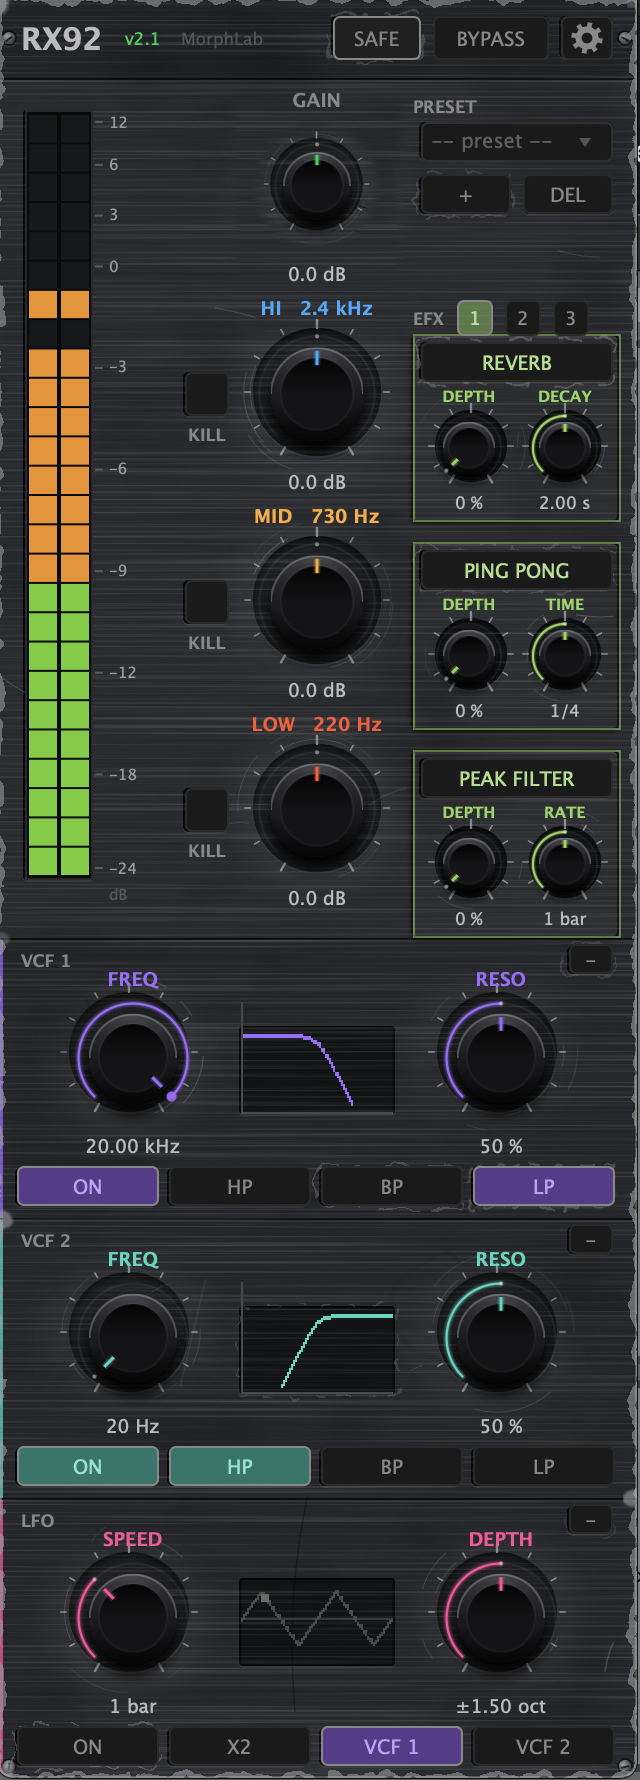
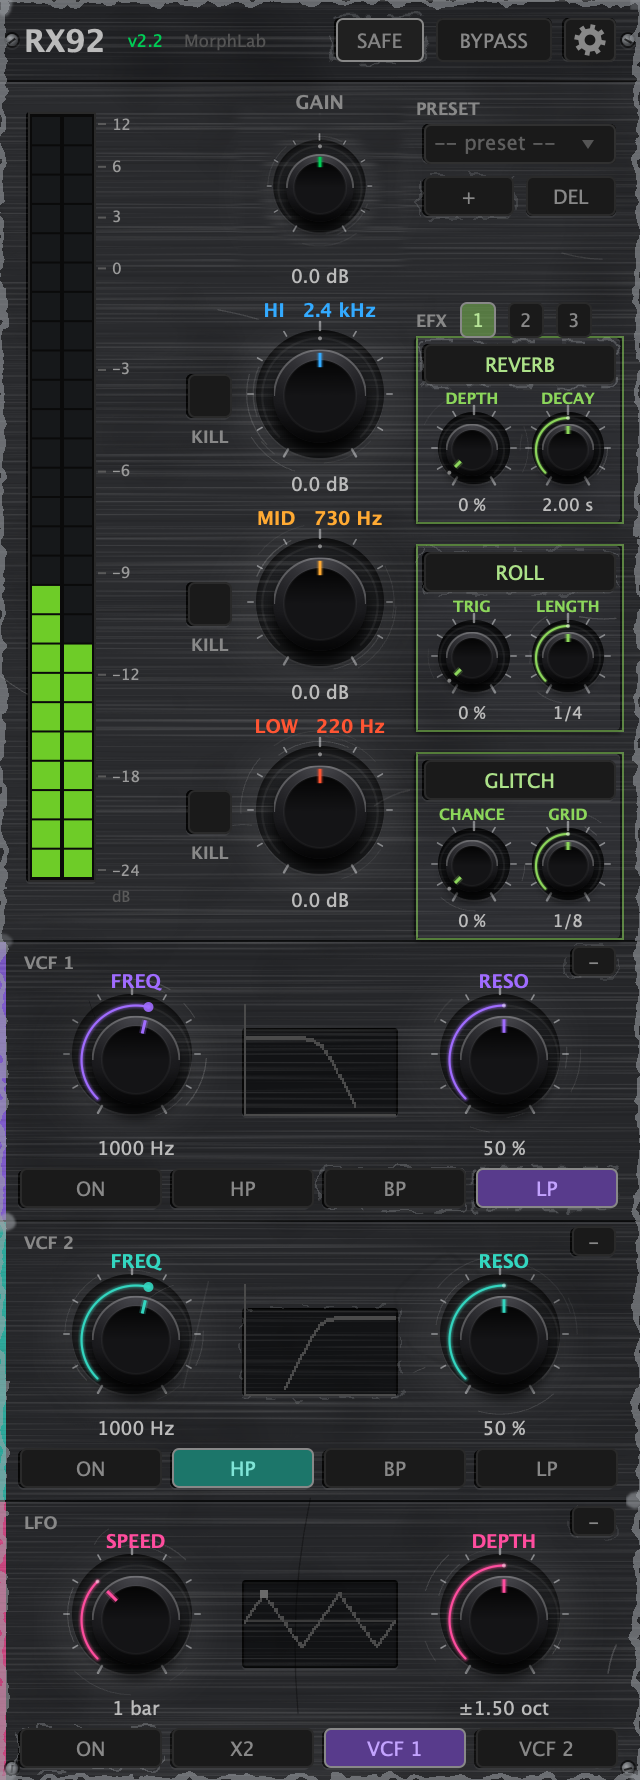
RX92 2.2: GLITCH, screenshot nuovo

diff --git a/index.html b/index.html
@@ -320,7 +320,7 @@ const PRODUCTS = [
   { id:"morphalign", file:"MorPhalign", name:"MorPhalign", version:"3.1", group:"plugins",
     tag:"Sidechain phase alignment",
     text:"Aligns one track to another through the sidechain, so kick and bass sum with the least cancellation. Four engines — Rotate, Multiband, Match and Match LF — on one big knob." },
-  { id:"rx92", file:"RX92", name:"RX92", version:"2.1", group:"plugins",
+  { id:"rx92", file:"RX92", name:"RX92", version:"2.2", group:"plugins",
     tag:"DJ channel strip",
     text:"A channel strip modelled on the famous club mixer, built for live sets: 3-band EQ with kill, two series filters with a tempo-synced LFO and three effect slots inspired by the most-used DJ mixers. Zero latency, every parameter mappable to your MIDI controller." },
   { id:"morphcontrolxl", file:"MorphControl-XL", name:"MorphControl XL", version:"1.2", group:"tools",
